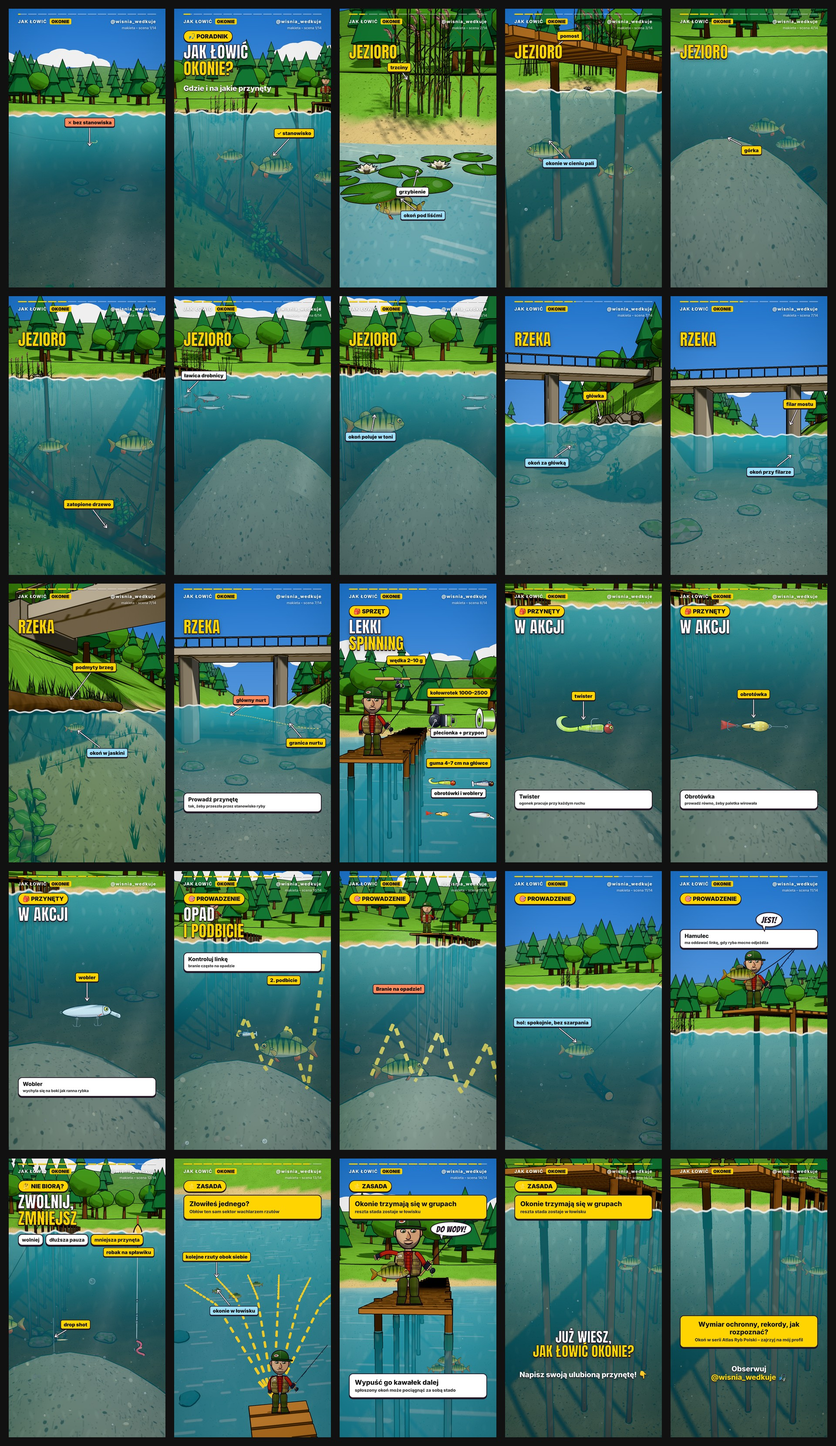
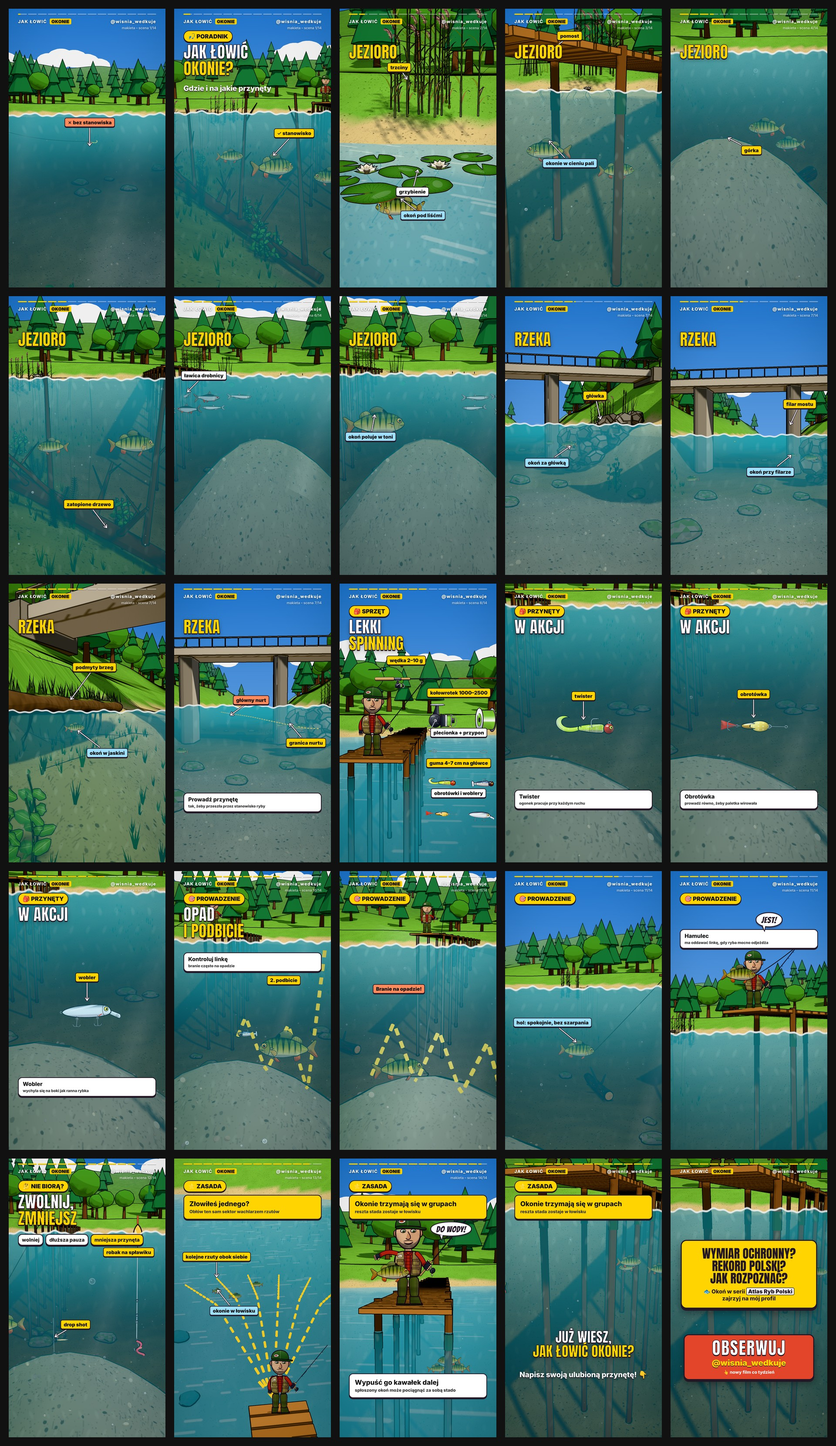
Okonie v2: bez napisu „makieta”, wyeksponowane zakończenie (karta Atlasu + duży przycisk Obserwuj)
Claude-Session: https://claude.ai/code/session_01YFDAx3363ZnHR5mXZwci3a

Changed region(s): [[0.8125, 0.8377, 1.0, 0.9617]]

diff --git a/atlas3d/okon_jak2.html b/atlas3d/okon_jak2.html
@@ -13,6 +13,17 @@
   .lista { position: absolute; left: 64px; right: 64px; display: flex; flex-wrap: wrap; gap: 14px; }
   .lista .karta { position: static; font: 800 34px Inter; padding: 14px 22px; }
   h1.cta { top: 1180px; font-size: 96px; text-align: center; }
+  /* zakończenie: zaproszenie na profil – na środku, mocno wyeksponowane */
+  .koniec { position: absolute; left: 70px; right: 70px; top: 560px; padding: 44px 40px 40px; text-align: center; background: var(--zolty); border: 7px solid #241726; border-radius: 40px;
+    box-shadow: 0 14px 0 #241726, 0 30px 60px rgba(0,0,0,.45); transform: rotate(-2deg); }
+  .k-pyt { font: 400 84px/1.02 Anton; text-transform: uppercase; color: #241726; }
+  .k-atlas { margin-top: 24px; font: 800 38px/1.25 Inter; color: #241726; }
+  .k-atlas b { background: #fff; padding: 0 10px; border-radius: 10px; border: 3px solid #241726; }
+  .obserwuj { position: absolute; left: 90px; right: 90px; top: 1210px; text-align: center; background: #e2452a; border: 7px solid #241726; border-radius: 36px; padding: 26px 20px 30px;
+    box-shadow: 0 12px 0 #241726, 0 26px 50px rgba(0,0,0,.4); transform: rotate(1.5deg); }
+  .obserwuj span { display: block; font: 400 120px/1 Anton; color: #fff; -webkit-text-stroke: 3px #241726; text-shadow: 0 6px 0 #241726; letter-spacing: 4px; }
+  .obserwuj b { display: block; margin-top: 10px; font: 900 56px Inter; color: var(--zolty); text-shadow: 0 4px 0 #241726; }
+  .obserwuj i { display: block; margin-top: 12px; font: 700 30px Inter; font-style: normal; color: #fff; opacity: .95; }
 </style>
 <script type="importmap">{ "imports": { "three": "/node_modules/three/build/three.module.js" } }</script>
 </head>
@@ -244,8 +255,11 @@ const SCENY = {
     return `<div class="chip" data-od=".2" data-do="21.6">⭐ ZASADA</div><div class="karta z" style="top:250px" data-od=".6" data-do="21.6">Okonie trzymają się w grupach<small>reszta stada zostaje w łowisku</small></div>
       <div class="karta" style="top:1480px" data-od="8" data-do="17">Wypuść go kawałek dalej<small>spłoszony okoń może pociągnąć za sobą stado</small></div>
       <h1 class="cta" data-od="17.4" data-do="21.6">Już wiesz,<br><span>jak łowić okonie?</span></h1><div class="opis" style="top:1460px;text-align:center" data-od="18.6" data-do="21.6">Napisz swoją ulubioną przynętę! 👇</div>
-      <div class="karta z" style="top:1080px;text-align:center" data-od="22">Wymiar ochronny, rekordy, jak rozpoznać?<small>Okoń w serii Atlas Ryb Polski – zajrzyj na mój profil</small></div>
-      <div class="opis" style="top:1420px;text-align:center" data-od="23.6">Obserwuj<br><span style="color:var(--zolty)">@wisnia_wedkuje</span> 🎣</div>`;
+      <div class="koniec" data-od="22">
+        <div class="k-pyt">Wymiar ochronny?<br>Rekord Polski?<br>Jak rozpoznać?</div>
+        <div class="k-atlas">🐟 Okoń w serii <b>Atlas Ryb Polski</b><br>zajrzyj na mój profil</div>
+      </div>
+      <div class="obserwuj" data-od="23.4"><span>OBSERWUJ</span><b>@wisnia_wedkuje</b><i>👆 kliknij w profil i obserwuj</i></div>`;
   },
 };
 

diff --git a/atlas3d/silnik.js b/atlas3d/silnik.js
@@ -571,7 +571,7 @@ let CFG = { sceny: {}, liczba: 9, tytul: '', dlugosc: (n, dl) => dl, tlo: () => 
 export function ustawSufit(y) { SUFIT = y; }                 // np. lód: ryby trzymają się pod nim
 export function swiatlo(tint, woda) { TINT = C(tint); if (woda) TINT_WODA = C(woda); }   // barwa postaci w świetle sceny
 export function ustawObszar(x, z) { OBSZAR = { x, z }; }   // środek efektów (bąbelki, zawiesina…)
-const naglowek = nr => `<div class="postep">${Array.from({ length: CFG.liczba }, (_, i) => `<i><b id="pp${i + 1}" style="width:${i + 1 < nr ? 100 : 0}%"></b></i>`).join('')}</div><div class="top"><div>${CFG.tytul}</div><div>@wisnia_wedkuje</div></div><div class="demo">makieta – scena ${nr}/${CFG.liczba}</div>`;
+const naglowek = nr => `<div class="postep">${Array.from({ length: CFG.liczba }, (_, i) => `<i><b id="pp${i + 1}" style="width:${i + 1 < nr ? 100 : 0}%"></b></i>`).join('')}</div><div class="top"><div>${CFG.tytul}</div><div>@wisnia_wedkuje</div></div>`;
 let TINT = C('#ffffff'), TINT_WODA = C('#bfe6ea');
 const DL = Number(new URLSearchParams(location.search).get('dl')) || 3.6;
 let DLUGOSC = DL, numer = 1, T0 = 0, przejscie = null, MAPA = null;
